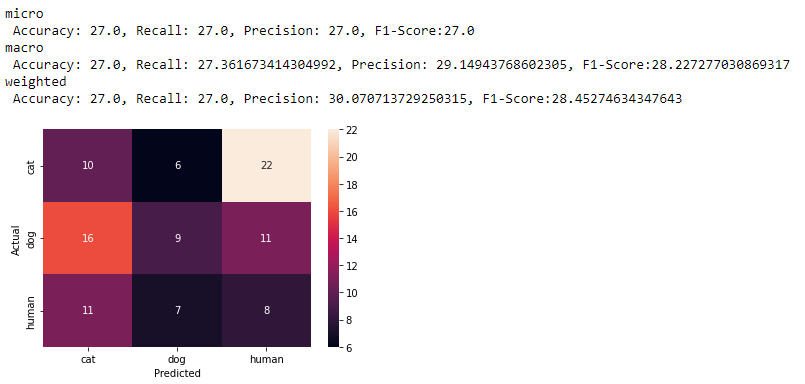
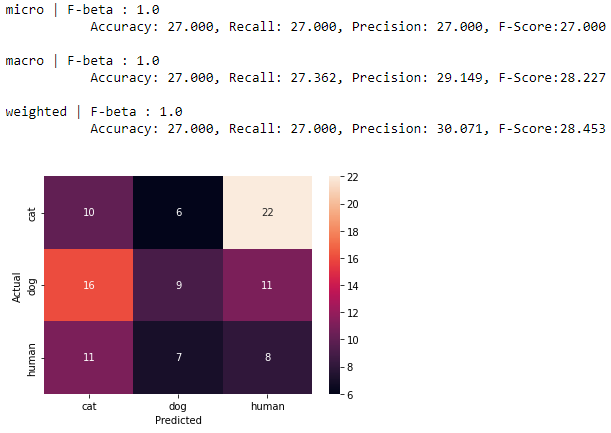
FINALISED

Changed region(s): [[0.0, 0.0, 0.9951, 1.0], [0.7152, 0.0312, 0.9951, 0.0938], [0.311, 0.7812, 0.3421, 0.8125]]

diff --git a/evaluation_method.py b/evaluation_method.py
@@ -51,4 +51,5 @@ def evaluate(actual, prediction, level = 'micro', beta = 1.0, draw = False):
     accuracy = compute_accuracy(matrix_df, prediction)
     recall, precision = recall_precision(matrix_df, level)
     f_score = compute_f_score(recall, precision, beta)
-    print(f"{level}\n Accuracy: {accuracy}, Recall: {recall}, Precision: {precision}, F1-Score:{f_score}")
+    print(f"{level} | F-beta : {beta} \n \
+          Accuracy: {accuracy:.3f}, Recall: {recall:.3f}, Precision: {precision:.3f}, F-Score:{f_score:.3f} \n")
